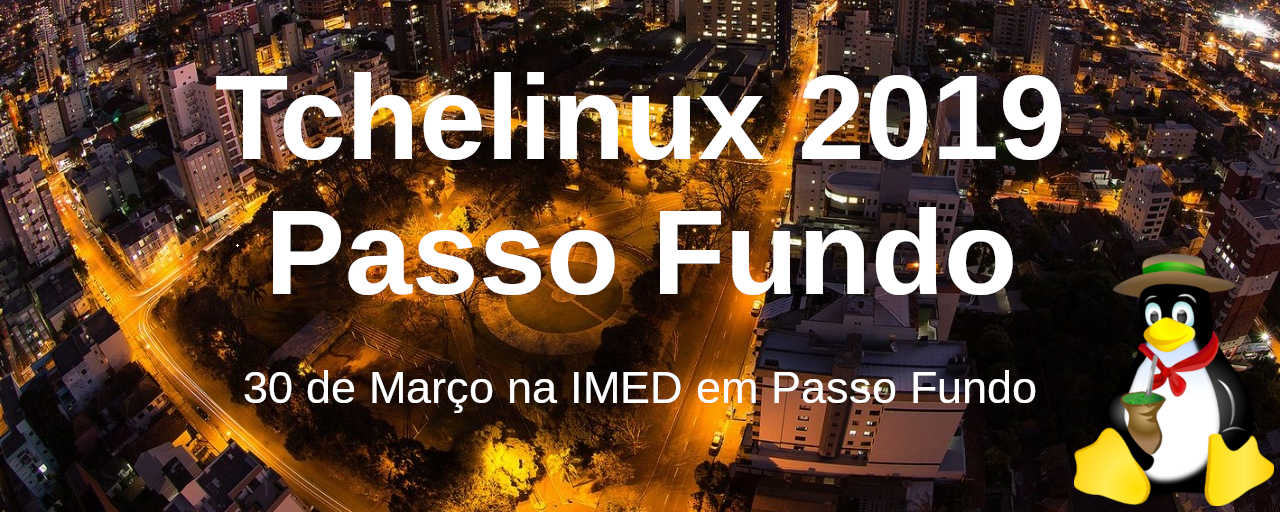
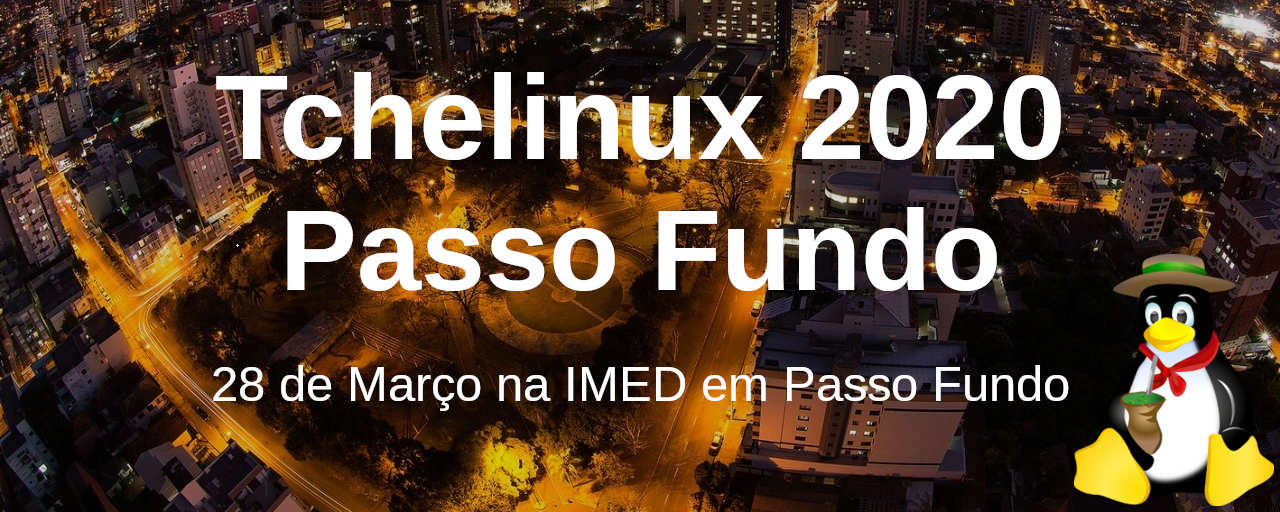
Site do Tchelinux 2020 Passo Fundo

diff --git a/index.html b/index.html
@@ -8,7 +8,7 @@
    See http://github.com/Dynalon/mdwiki for a copy of the source code.
 -->
 <head>
-    <title>Tchelinux 2019</title>
+    <title>Tchelinux 2020</title>
     <meta name="viewport" content="width=device-width, initial-scale=1.0">
     <meta name="fragment" content="!">
     <link rel="shortcut icon" type="image/x-icon" href="favicon.png" />

diff --git a/cfp/index.html b/cfp/index.html
@@ -1,0 +1,3 @@
+<html>
+	<META http-equiv="refresh" content="0;URL=https://forms.gle/hZ3H9oux5eg8PEA49">
+</html>

diff --git a/inscricoes/index.html b/inscricoes/index.html
@@ -1,0 +1,3 @@
+<html>
+	<META http-equiv="refresh" content="0;URL=https://forms.gle/gixL12BQtiFS69U76">
+</html>

diff --git a/fotos/index.html b/fotos/index.html
@@ -1,0 +1,3 @@
+<html>
+	<META http-equiv="refresh" content="0;URL=https://tchelinux.org/">
+</html>

diff --git a/pesquisa/index.html b/pesquisa/index.html
@@ -1,0 +1,3 @@
+<html>
+	<META http-equiv="refresh" content="0;URL=https://tchelinux.org/">
+</html>

diff --git a/index.md b/index.md
@@ -1,105 +1,28 @@
-[![Tchelinux 2019 Passo Fundo](images/banner.jpg)](#)
+[![Tchelinux 2020 Passo Fundo](images/banner.jpg)](#)
 
 ## Sobre
 
-O grupo de usuários de Software Livre Tchelinux, em parceria com a [IMED Passo Fundo](https://imed.edu.br/), tem o prazer de convidar a comunidade para participar do evento que ocorrerá no dia **30 de Março de 2019 a partir das 8:30h** na IMED em Passo Fundo.
+O grupo de usuários de Software Livre Tchelinux, em parceria com a [IMED Passo Fundo](https://imed.edu.br/), tem o prazer de convidar a comunidade para participar do evento que ocorrerá no dia **28 de Março de 2020 a partir das 8:30h** na IMED em Passo Fundo.
+
+## Chamada de Trabalhos
+
+A **Chamada de Trabalhos está aberta** e o prazo para submissão de propostas de palestra é **28 de Fevereiro de 2020**. Os trabalhos escolhidos serão anúnciados no dia 29 de Fevereiro de 2020.
+
+<center><a href="https://passofundo.tchelinux.org/cfp/" style="color:#ff4040"><b><h3>Clique aqui e submeta sua palestra!<h3></b></a></center>
 
 ## Inscrições
 
- O evento tem **entrada franca**, porém os participantes são encorajados a doar 2kg de alimentos não perecíveis (exceto sal), que são doados a instituições de caridade da região. Os alimentos são recebidos no momento do credenciamento.
+As inscrições já se encontram abertas e podem ser feitas através do link abaixo: 
 
-<a href="https://goo.gl/forms/lPym9kghqwphR7JI2" target="_blank"><b>Clique aqui para fazer sua inscrição!</b></a>
+<center><a href="https://passofundo.tchelinux.org/inscricoes/" style="color:#ff4040"><b><h3>Clique aqui e faça já a sua inscrição! Vagas limitadas!<h3></b></a></center>
+
+O evento tem **entrada franca**, porém os participantes são encorajados a doar 2kg de alimentos não perecíveis (exceto sal), que são doados a instituições de caridade da região. Os alimentos são recebidos no momento do credenciamento.
 
 ## Certificados
 
 Serão fornecidos certificados digitais para os participantes do evento, que confirmaram sua presença. Para obtê-los, você deverá utilizar o email fornecido na sua inscrição para o evento.
 
 **Importante:** Não esqueça de confirmar sua presença no credenciamento.
-
-## Programação
-
-| <center> Horário </center>  |  <center> Auditório </center>                             | 
-|:---------------------------:|:---------------------------------------------------------:|
-| **08:30** | **Credenciamento** |
-| **09:00** | **Abertura** <br> <span class="label label-info">Todo o público</span> <br> Equipe Tchelinux |
-| **09:30** | [**Seu primeiro algoritmo de Machine Learning**](#Seu_primeiro_algoritmo_de_Machine_Learning) <br> <span class="label label-success">Principiante</span> <br> Fernando Posser Pinheiro |
-| **10:15** | [**Automatizando ambientes com Ansible**](#Automatizando_ambientes_com_Ansible) <br> <span class="label label-success">Principiante</span> <br> Rudnei José da Silva Bertol Júnior|
-| **11:00** | [**Lean Inception**](#Lean_Inception) <br> <span class="label label-success">Principiante</span> <br> Guilherme Pissolatto |
-| **11:45** | [**Implementando segurança com Zabbix**](#Implementando_Segurança_com_Zabbix) <br> <span class="label label-success">Principiante</span> <br> Adilmar Morandi |
-| **12:30** <td colspan=5><center>**Intervalo para Almoço**</center> |
-| **14:00** | [**Linux, Raspberry Pi e IoT**](#Linux,_Raspberry_Pi_e_IoT) <br> <span class="label label-warning">Intermediário</span> <br> Ricardo da Silva Ogliari |
-| **14:45** | [**Git para principiantes**](#Git_para_principiantes) <br> <span class="label label-success">Principiante</span> <br> Fábio Beneditto |
-| **15:30** <td colspan=5><center>**Coffee-Break**</center> |
-| **16:00** | [**Venha para o lado SPA da força e React!**](#Venha_para_o_lado_SPA_da_força_e_React!) <br> <span class="label label-success">Principiante</span> <br> Giuseppe M. Pereira |
-| **16:45** | [**Linux Desktop - 2019 é o ano de deixar o Windows?**](#Linux_Desktop_-_2019_é_o_ano_de_deixar_o_Windows?) <br> <span class="label label-success">Principiante</span> <br> Dionatan Simioni |
-| **17:30** | **Encerramento** <br> <span class="label label-info">Todo o público</span> <br> Equipe Tchelinux |
-
-## Palestras
-
-### Seu primeiro algoritmo de Machine Learning
-
-Sempre que falamos em machine learning imaginamos algoritmos difíceis de desenvolver e conteúdos massantes, o que torna a entrada de jovens programadores um pouco resistente. Esta palestra é dedicada às pessoas que possuem conhecimentos básicos em alguma linguagem de programação e programação orientada a objetos, abordando o algoritmo K-Nearest Neighbors, que é um algoritmo de machine learning fácil de ser compreendido, muito simples de ser implementado e que ainda nos dá bons resultados. Nesta palestra entenderemos um pouco de como ele funciona, como implementar e em quais cenários ele pode ser utilizado.
-
-### Fernando Posser Pinheiro
-
-[Fernando Posser Pinheiro](https://linkedin.com/in/feerposser/) é formado em Sistemas de Informação onde foi fundador do Diretório Acadêmico de Sistemas de Informação e Ciência da Computação da IMED, venceu o prêmio de melhor aluno pesquisador TCC com trabalho desenvolvido em ETL e análise de dados. Mestrando em Computação Aplicada pela UPF, é Professor do projeto TeuFuturo IMED. Fundador da Watchpost e empreendedor serial, atua em projetos de base tecnológica na área da segurança pública e saúde. Empreendedor serial, é um dos líderes da Comunidade RS baseada no norte gaúcho.
-
-### Automatizando ambientes com Ansible
-
-O objetivo desta palestra é apresentar o Ansible Core uma ferramenta para automação de ambientes, assim como os conceito de Playbook, role, criação de resources e demostrar a instalação de uma aplicação Web com 2 nodes e um balanceador baseado em deploy green/blue, sem causar indisponíbilidade.
-
-### Rudnei José da Silva Bertol Júnior
-
-[Rudnei José da Silva Bertol Júnior](https://www.linkedin.com/in/rudnei-bertol-jr-160a4b39/) é Technical Support Engineer na Red Hat, trabalha com TI à 7 anos e nos últimos 3 anos vem focando na automação de serviços e infraestrutura (Puppet e Ansible). Graduado em gestão de TI, é especialista em Ansible, Puppet, Satellite, RHV e possui algumas certificações RHCSA/RHCE.
-
-### Lean Inception
-
-Lean inception é um modelo de colaboração para a criação de produtos. Diversas empresas, principalmente pequenos negócios que precisam de uma orientação, como as Startups, buscam por especialistas na hora de criar de seus modelos de negócios, produtos ou serviços. Contudo as metodologias existentes estão se tornando inviáveis, uma vez que, em um mundo cada vez mais conectado por conta da transformação digital, levar algumas semanas de desenvolvimento para se atingir um objetivo é praticamente uma eternidade. O criador do método Lean Inception, Paulo Caroli, visualizou no conceito de MVP a inspiração para o que viria a se tornar sua metodologia, criando um ciclo de colaboração muito mais eficaz e rápido.
-
-### Guilherme Pissolatto
-
-[Guilherme Pissolatto](https://www.linkedin.com/in/guilhermepissolatto/) é formado em Ciências da Computação pela Universidade de Passo Fundo e Especialista em Qualidade de Software – Unisinos.
-
-### Implementando Segurança com Zabbix
-
-Cada vez mais as áreas de negócio das empresas estão utilizando serviços de tecnologia da Informação para suportarem suas atividades estratégicas e operacionais, ou seja, à medida que isso avança se tornam necessários profissionais que tenham conhecimento sobre práticas e propostas sobre padrões de mercados.Sendo assim vou falar um pouco sobre a ferramenta Zabbix aplicada na área de segurança da informação adequando isso as melhores práticas de mercado.
-
-### Adilmar Morandi
-
-[Adilmar Morandi](https://www.linkedin.com/in/adilmar-morandi-b20aa443/) é MBA em Gestão Estratégica de Tecnologia da Informação pela IMED. Bacharel em Ciência da Computação pela URI - Campus de Erechim, certificado ITIL® Foundation Certificate in IT Service Management pela EXIN e entusiasta em software Livre e Opensource. Trabalha na área de TI à 8 anos atualmente Líder responsável pela infraestrutura e gestão de projetos da área de TI na Edelbra Gráfica.
-
-### Linux, Raspberry Pi e IoT
-
-O Objetivo da palestra é mostrar como é fácil instalar e configurar um sistema operacional Linux em um mini-PC Raspberry Pi. Além disso, irei analisar a API para integrar com Internet das Coisas, demonstrações que é possível ser feito.
-
-### Ricardo da Silva Ogliari
-
-[Ricardo da Silva Ogliari](https://www.linkedin.com/in/ricardoogliari/) é Bacharel em Ciência da Computação pela UPF. Especialista em Web: Estratégias de Inovação e Tecnologia pelo Senac-SP. MBA em Desenvolvimento de Jogos e Aplicativos Móveis, pela FIAP. Desenvolvedor Android na Kanamobi. Instrutor na Mobi Learn. Co-autor do livro Android: do Básico ao Avançado. Palestrante em eventos nacionais e internacionais, como FISL, Campus Party, TDC, Intercon e QCon.
-
-### Git para principiantes
-
-O mínimo que você precisa saber sobre Git, sistema de versionamento de arquivos.
-
-### Fabio Beneditto
-
-[Fabio Beneditto](https://about.me/fabiobeneditto) é Desenvolvedor Web, Old School Nerd, simpatizante de F/OSS, segurança da informação e comunidades em geral. Voluntário Tchelinux desde 2016, é praticante de #mototerapia.
-
-### Venha para o lado SPA da força e React!
-
-Nesta apresentação veremos como SPA's funcionam, o porque dos webpacks e um pouco de React no final com exemplos.
-
-### Giuseppe M Pereira
-
-[Giuseppe M Pereira](https://www.linkedin.com/in/giuseppe-m-pereira-b6ba56bb/) é Arquiteto de Soluções Agilista, Microservices Expert na empresa Meta.
-
-### Linux Desktop - 2019 é o ano de deixar o Windows?
-
-A ideia é mostrar o vislumbre atual do desktop Linux, com distros e ferramentais adequados para quem fazer a migração, mostrando a aplicação do sistema em diversas vertentes diferentes, inclundo produção audivisual, design, office e games.
-
-### Dionatan Simioni
-
-[Dionatan Simioni](https://br.linkedin.com/in/dionatan-simioni-59baa636) é criador do blog e canal Diolinux, escritor e divulgador de softwares open source.
-
 
 ## Local
 
@@ -120,13 +43,10 @@ A ideia é mostrar o vislumbre atual do desktop Linux, com distros e ferramentai
 
 ### Patrocínio
 
-[![ContentTools](images/logo_contenttools.png)](https://contentools.com/)
-[![Meta](images/logo_meta.png)](http://www.meta.com.br)
-[![Venda Bem](images/logo_vendabem.png)](http://www.vendabem.com.br/)
-[![Atua](images/logo_atua.png)](https://www.atua.com.br/)
+[![Rust in POA](images/logo_rust.png)](https://www.meetup.com/Rust-in-POA/)
 
 ### Divulgação
 
-[![Blog Diolinux](images/logo_diolinux.png)](https://www.diolinux.com.br/)
 [![Projeto Root](images/logo_projetoroot.png)](https://projetoroot.com.br/)
+[![PyTchê](images/logo_pytche.png)](https://pytche-site.readthedocs.io/en/latest/)
 [![PHP Conference Brasil](images/logo_phpconference.png)](https://phpconference.com.br/)

diff --git a/navigation.md b/navigation.md
@@ -1,8 +1,7 @@
 [Sobre](#Sobre)
+[Chamada de Trabalhos](#Chamada_de_Trabalhos)
 [Inscrições](#Inscrições)
 [Certificados](#Certificados)
-[Programação](#Programação)
-[Palestras](#Palestras)
 [Local](#Local)
 [Apoio](#Apoio)
 [Codigo de Conduta](https://wiki.tchelinux.org/#!conduta.md)
